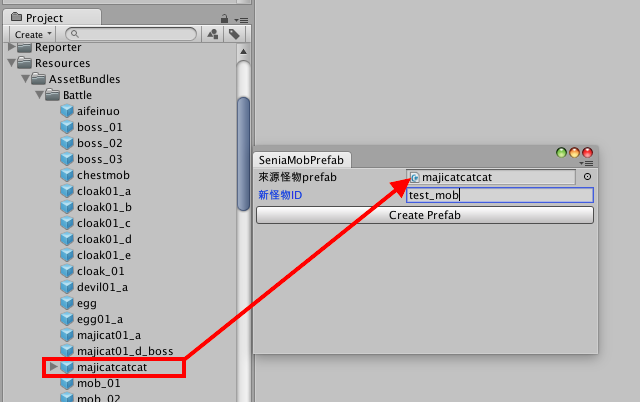
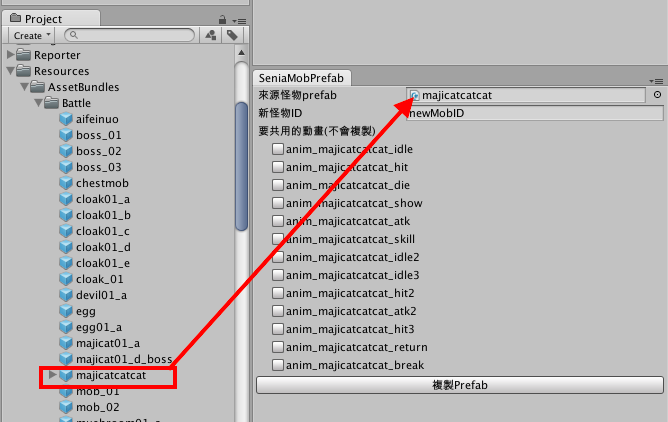
update SeniaMobPrefabEditor doc

Changed region(s): [[0.0, 0.0, 1.0, 1.0]]

diff --git a/docs/senia-tools.rst b/docs/senia-tools.rst
@@ -91,5 +91,6 @@ SeniaTableUnitTest Editor可用來測試表格機率是否正確
 
   * 將想要複製的怪物prefab拖曳到"來源怪物prefab"
   * 輸入新怪物ID，小心不要有重複
-  * Create Prefab，會複製整個怪物的script/動畫/圖檔資源，並放在相對應的新怪物ID目錄下
+  * 將需要共用的動畫打勾，會共用來源怪物的動畫
+  * 複製Prefab按鈕，會複製整個怪物的script/動畫/圖檔資源，並放在相對應的新怪物ID目錄下
 
